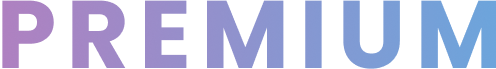
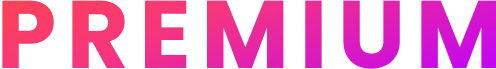
UI Update

diff --git a/lib/Pages/EditProfileScreen.dart b/lib/Pages/EditProfileScreen.dart
@@ -305,7 +305,7 @@ class _EditScreenState extends StateMVC<EditProfileScreen> {
                       fontSize: getProportionalFontSize(16),
                       fontFamily: 'poppins',
                       fontWeight: FontWeight.w600,
-                      color: Helper.hexToColor("#5BAEE2")),
+                      color: Helper.hexToColor("#FF4350")),
                 ),
               ),
             ),
@@ -345,7 +345,7 @@ class _EditScreenState extends StateMVC<EditProfileScreen> {
                               borderRadius:
                               BorderRadius.all(Radius.circular(120.0)),
                               border: Border.all(
-                                  color: Helper.hexToColor("#5BAEE2"),
+                                  color: Helper.hexToColor("#FF4350"),
                                   width: 3)),
                           child: Stack(
                             children: [
@@ -966,14 +966,14 @@ class _EditScreenState extends StateMVC<EditProfileScreen> {
                                         fontSize: getProportionalFontSize(12),
                                         fontFamily: 'poppins',
                                         fontWeight: FontWeight.w600,
-                                        color: Helper.hexToColor("#C078BA"))),
+                                        color: Helper.hexToColor("#FF4350"))),
                               ),
                               Row(
                                 mainAxisAlignment: MainAxisAlignment.center,
                                 children: [
                                   Icon(
                                     Icons.keyboard_arrow_right,
-                                    color: Helper.hexToColor("#53AAE0"),
+                                    color: Helper.hexToColor("#FF4350"),
                                     size: getProportionateScreenHeight(20),
                                   )
                                 ],
@@ -1034,7 +1034,7 @@ class _EditScreenState extends StateMVC<EditProfileScreen> {
                                         fontSize: getProportionalFontSize(12),
                                         fontFamily: 'poppins',
                                         fontWeight: FontWeight.w600,
-                                        color: Helper.hexToColor("#C078BA"))),
+                                        color: Helper.hexToColor("#FF4350"))),
                               ),
                               Row(
                                 mainAxisAlignment: MainAxisAlignment.center,
@@ -1056,7 +1056,7 @@ class _EditScreenState extends StateMVC<EditProfileScreen> {
                                   ),
                                   Icon(
                                     Icons.keyboard_arrow_right,
-                                    color: Helper.hexToColor("#53AAE0"),
+                                    color: Helper.hexToColor("#FF4350"),
                                     size: getProportionateScreenHeight(20),
                                   )
                                 ],
@@ -1135,14 +1135,14 @@ class _EditScreenState extends StateMVC<EditProfileScreen> {
                                         fontSize: getProportionalFontSize(12),
                                         fontFamily: 'poppins',
                                         fontWeight: FontWeight.w600,
-                                        color: Helper.hexToColor("#C078BA"))),
+                                        color: Helper.hexToColor("#FF4350"))),
                               ),
                               Row(
                                 mainAxisAlignment: MainAxisAlignment.center,
                                 children: [
                                   Icon(
                                     Icons.keyboard_arrow_right,
-                                    color: Helper.hexToColor("#53AAE0"),
+                                    color: Helper.hexToColor("#FF4350"),
                                     size: getProportionateScreenHeight(20),
                                   )
                                 ],

diff --git a/lib/Pages/SettingsScreen.dart b/lib/Pages/SettingsScreen.dart
@@ -577,7 +577,7 @@ class _SettingsState extends StateMVC<SettingsScreen> {
                     ),
                     Icon(
                       Icons.keyboard_arrow_right,
-                      color: Helper.hexToColor("#53AAE0"),
+                      color: Helper.hexToColor("#FF4350"),
                       size: getProportionateScreenHeight(20),
                     )
                   ],
@@ -615,7 +615,7 @@ class _SettingsState extends StateMVC<SettingsScreen> {
                     ),
                     Icon(
                       Icons.keyboard_arrow_right,
-                      color: Helper.hexToColor("#53AAE0"),
+                      color: Helper.hexToColor("#FF4350"),
                       size: getProportionateScreenHeight(20),
                     )
                   ],
@@ -648,7 +648,7 @@ class _SettingsState extends StateMVC<SettingsScreen> {
                           ),
                           Icon(
                             Icons.keyboard_arrow_right,
-                            color: Helper.hexToColor("#53AAE0"),
+                            color: Helper.hexToColor("#FF4350"),
                             size: getProportionateScreenHeight(20),
                           )
                         ],
@@ -682,7 +682,7 @@ class _SettingsState extends StateMVC<SettingsScreen> {
                     ),
                     Icon(
                       Icons.keyboard_arrow_right,
-                      color: Helper.hexToColor("#53AAE0"),
+                      color: Helper.hexToColor("#FF4350"),
                       size: getProportionateScreenHeight(20),
                     )
                   ],
@@ -717,7 +717,7 @@ class _SettingsState extends StateMVC<SettingsScreen> {
                     ),
                     Icon(
                       Icons.keyboard_arrow_right,
-                      color: Helper.hexToColor("#53AAE0"),
+                      color: Helper.hexToColor("#FF4350"),
                       size: getProportionateScreenHeight(20),
                     )
                   ],
@@ -761,7 +761,7 @@ class _SettingsState extends StateMVC<SettingsScreen> {
                                 fontSize: getProportionalFontSize(12),
                                 fontFamily: 'poppins',
                                 fontWeight: FontWeight.w600,
-                                color: Helper.hexToColor("#C078BA"))),
+                                color: Helper.hexToColor("#FF4350"))),
                       ),
                     ],
                   ),

diff --git a/lib/Pages/ProfileScreen.dart b/lib/Pages/ProfileScreen.dart
@@ -433,7 +433,7 @@ class _ProfileState extends StateMVC<ProfileScreen> {
                                                         11.5)),
                                             decoration: BoxDecoration(
                                                 color: Helper.hexToColor(
-                                                    "#EAF7FF"),
+                                                    "#FFD9DC"),
                                                 borderRadius: BorderRadius.all(
                                                     Radius.circular(107))),
                                             child: Text(i.toUpperCase(),
@@ -446,7 +446,7 @@ class _ProfileState extends StateMVC<ProfileScreen> {
                                                     letterSpacing: 1.68,
                                                     fontWeight: FontWeight.w600,
                                                     color: Helper.hexToColor(
-                                                        "#42A1DC"))),
+                                                        "#FF4350"))),
                                           );
                                         }).toList(),
                                       ),
@@ -641,7 +641,7 @@ class _ProfileState extends StateMVC<ProfileScreen> {
                                         fontSize: getProportionalFontSize(12),
                                         fontFamily: 'poppins',
                                         fontWeight: FontWeight.w600,
-                                        color: Helper.hexToColor("#C078BA"))),
+                                        color: Helper.hexToColor("#FF4350"))),
                               ),
                               Row(
                                 mainAxisAlignment: MainAxisAlignment.center,
@@ -652,7 +652,7 @@ class _ProfileState extends StateMVC<ProfileScreen> {
                                   ),
                                   Icon(
                                     Icons.keyboard_arrow_right,
-                                    color: Helper.hexToColor("#53AAE0"),
+                                    color: Helper.hexToColor("#FF4350"),
                                     size: getProportionateScreenHeight(20),
                                   )
                                 ],

diff --git a/lib/Pages/FeedsScreen.dart b/lib/Pages/FeedsScreen.dart
@@ -71,8 +71,8 @@ class _FeedsState extends StateMVC<FeedsScreen> {
                       margin: EdgeInsets.only(
                           top: getProportionateScreenHeightMain(50),
                           bottom: getProportionateScreenHeightMain(10)),
-                      child: Image.asset(
-                        "assets/images/syndeo.png",
+                      child: SvgPicture.asset(
+                        "assets/images/syndeo.svg",
                         width: getProportionateScreenWidthMain(160),
                         height: getProportionateScreenHeightMain(28),
                       ),

diff --git a/lib/Pages/AboutMeYourIdentifySpecifyScreen.dart b/lib/Pages/AboutMeYourIdentifySpecifyScreen.dart
@@ -149,7 +149,7 @@ class _AboutMeYourIdentifySpecifyState
                                       fontSize: getProportionalFontSize(9),
                                       fontFamily: 'poppins',
                                       fontWeight: FontWeight.w700,
-                                      color: Helper.hexToColor("#5CAEE2"))),
+                                      color: Helper.hexToColor("#FF4350"))),
                             ),
                           ),
                         ],

diff --git a/lib/Pages/MatchScreen.dart b/lib/Pages/MatchScreen.dart
@@ -40,7 +40,7 @@ class _MatchState extends StateMVC<MatchScreen> {
                     margin:
                         EdgeInsets.only(top: getProportionateScreenHeightMain(56)),
                     child: SvgPicture.asset(
-                      "assets/images/neurowhite.svg",
+                      "assets/images/syndeo.svg",color: Colors.white,
                     ),
                   ),
                 ),

diff --git a/lib/Pages/AboutMeYourIdentifyScreen.dart b/lib/Pages/AboutMeYourIdentifyScreen.dart
@@ -1,4 +1,4 @@
-import 'package:flutter/material.dart';
+  import 'package:flutter/material.dart';
 import 'package:flutter_svg/svg.dart';
 import 'package:mvc_pattern/mvc_pattern.dart';
 import 'package:neuro/Helper/Helper.dart';
